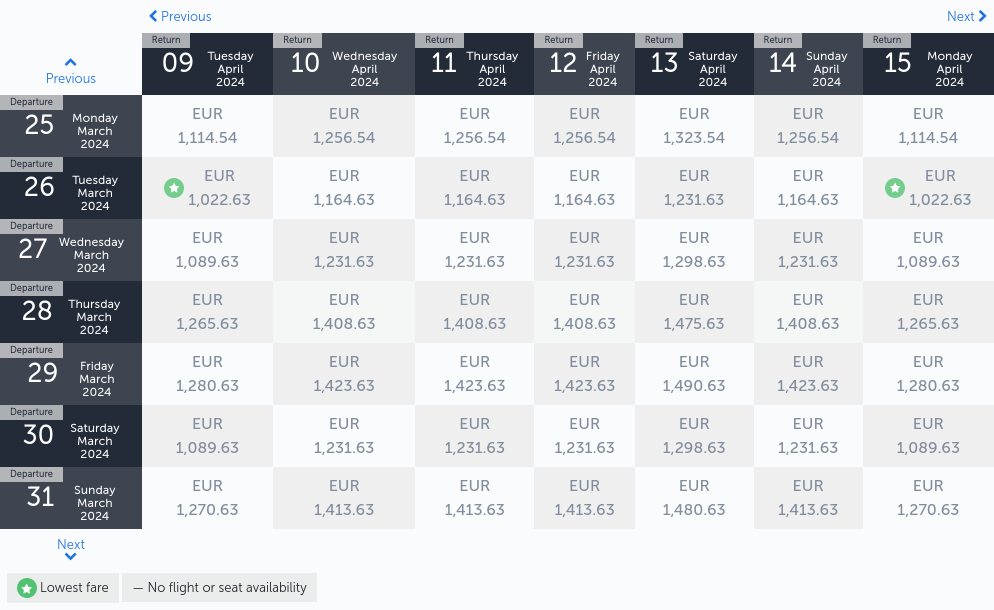
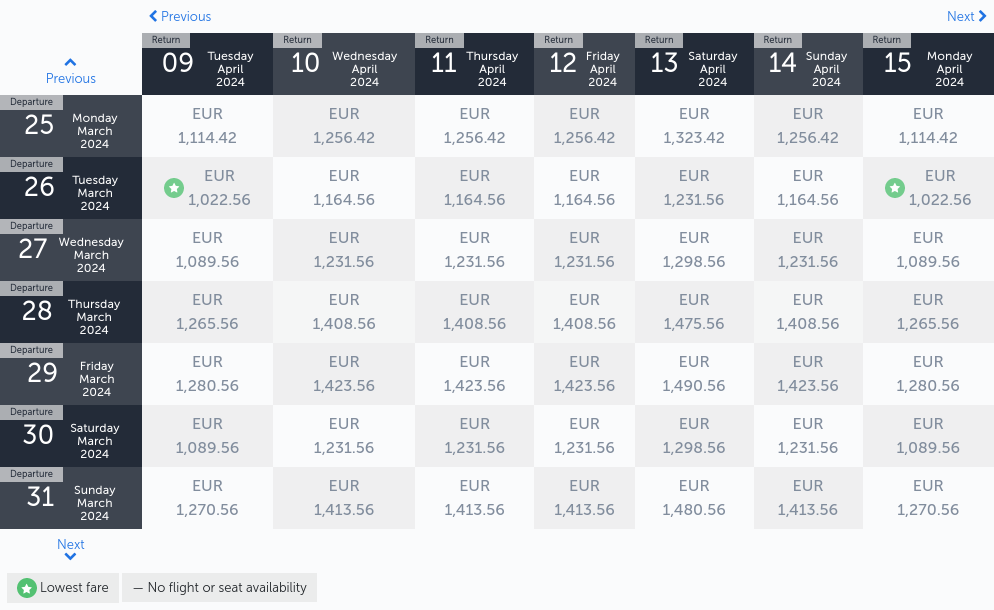
Latest scraping taiwan: Fri Jun  9 22:38:40 UTC 2023

diff --git a/scrapes/taiwan/turkish-airlines.md b/scrapes/taiwan/turkish-airlines.md
@@ -2,13 +2,13 @@
 | --- | --- | --- | --- | --- | --- | --- | --- |
 | Previous | Return<br><br>09 Tuesday April 2024 | Return<br><br>10 Wednesday April 2024 | Return<br><br>11 Thursday April 2024 | Return<br><br>12 Friday April 2024 | Return<br><br>13 Saturday April 2024 | Return<br><br>14 Sunday April 2024 | Return<br><br>15 Monday April 2024 |
 | --- | --- | --- | --- | --- | --- | --- | --- |
-| Departure<br><br>25 Monday March 2024 | 1,114.54 | 1,256.54 | 1,256.54 | 1,256.54 | 1,323.54 | 1,256.54 | 1,114.54 |
-| Departure<br><br>26 Tuesday March 2024 | 1,022.63 | 1,164.63 | 1,164.63 | 1,164.63 | 1,231.63 | 1,164.63 | 1,022.63 |
-| Departure<br><br>27 Wednesday March 2024 | 1,089.63 | 1,231.63 | 1,231.63 | 1,231.63 | 1,298.63 | 1,231.63 | 1,089.63 |
-| Departure<br><br>28 Thursday March 2024 | 1,265.63 | 1,408.63 | 1,408.63 | 1,408.63 | 1,475.63 | 1,408.63 | 1,265.63 |
-| Departure<br><br>29 Friday March 2024 | 1,280.63 | 1,423.63 | 1,423.63 | 1,423.63 | 1,490.63 | 1,423.63 | 1,280.63 |
-| Departure<br><br>30 Saturday March 2024 | 1,089.63 | 1,231.63 | 1,231.63 | 1,231.63 | 1,298.63 | 1,231.63 | 1,089.63 |
-| Departure<br><br>31 Sunday March 2024 | 1,270.63 | 1,413.63 | 1,413.63 | 1,413.63 | 1,480.63 | 1,413.63 | 1,270.63 |
+| Departure<br><br>25 Monday March 2024 | 1,114.42 | 1,256.42 | 1,256.42 | 1,256.42 | 1,323.42 | 1,256.42 | 1,114.42 |
+| Departure<br><br>26 Tuesday March 2024 | 1,022.56 | 1,164.56 | 1,164.56 | 1,164.56 | 1,231.56 | 1,164.56 | 1,022.56 |
+| Departure<br><br>27 Wednesday March 2024 | 1,089.56 | 1,231.56 | 1,231.56 | 1,231.56 | 1,298.56 | 1,231.56 | 1,089.56 |
+| Departure<br><br>28 Thursday March 2024 | 1,265.56 | 1,408.56 | 1,408.56 | 1,408.56 | 1,475.56 | 1,408.56 | 1,265.56 |
+| Departure<br><br>29 Friday March 2024 | 1,280.56 | 1,423.56 | 1,423.56 | 1,423.56 | 1,490.56 | 1,423.56 | 1,280.56 |
+| Departure<br><br>30 Saturday March 2024 | 1,089.56 | 1,231.56 | 1,231.56 | 1,231.56 | 1,298.56 | 1,231.56 | 1,089.56 |
+| Departure<br><br>31 Sunday March 2024 | 1,270.56 | 1,413.56 | 1,413.56 | 1,413.56 | 1,480.56 | 1,413.56 | 1,270.56 |
 | Next |
 | Lowest fare — No flight or seat availability |     |     |     |     |     |     |     |
 

diff --git a/scrapes/taiwan/emirates.md b/scrapes/taiwan/emirates.md
@@ -1,12 +1,12 @@
 |     |     |     |     |     |     |     |     |
 | --- | --- | --- | --- | --- | --- | --- | --- |
 | Inbound<br><br>TPE - BRU<br><br>Economy<br><br>Inbound Taipei to Taipei in Economy Class | **Monday**<br><br>25 March | **Tuesday**<br><br>26 March | **Wednesday**<br><br>27 March | **Thursday**<br><br>28 March | **Friday**<br><br>29 March | **Saturday**<br><br>30 March | **Sunday**<br><br>31 March |
-| **Tuesday**<br><br>9 April | **999** | **999** | **999** | **1,309** | **1,334** | **1,334** | **1,309** |
-| **Wednesday**<br><br>10 April | **999** | **999** | **999** | **1,309** | **1,334** | **1,334** | **1,309** |
-| **Thursday**<br><br>11 April | **1,034** | **1,034** | **1,034** | **1,309** | **1,334** | **1,334** | **1,309** |
-| **Friday**<br><br>12 April | **1,074** | **1,074** | **1,074** | **1,309** | **1,334** | **1,334** | **1,309** |
-| **Saturday**<br><br>13 April | **1,099** | **1,099** | **1,099** | **1,334** | **1,359** | **1,359** | **1,334** |
-| **Sunday**<br><br>14 April | **1,059** | **1,059** | **1,059** | **1,334** | **1,359** | **1,359** | **1,334** |
-| **Monday**<br><br>15 April | **1,034** | **1,034** | **1,034** | **1,309** | **1,334** | **1,334** | **1,309** |
+| **Tuesday**<br><br>9 April | **998** | **998** | **998** | **1,308** | **1,333** | **1,333** | **1,308** |
+| **Wednesday**<br><br>10 April | **998** | **998** | **998** | **1,308** | **1,333** | **1,333** | **1,308** |
+| **Thursday**<br><br>11 April | **1,033** | **1,033** | **1,033** | **1,308** | **1,333** | **1,333** | **1,308** |
+| **Friday**<br><br>12 April | **1,073** | **1,073** | **1,073** | **1,308** | **1,333** | **1,333** | **1,308** |
+| **Saturday**<br><br>13 April | **1,098** | **1,098** | **1,098** | **1,333** | **1,358** | **1,358** | **1,333** |
+| **Sunday**<br><br>14 April | **1,058** | **1,058** | **1,058** | **1,333** | **1,358** | **1,358** | **1,333** |
+| **Monday**<br><br>15 April | **1,033** | **1,033** | **1,033** | **1,308** | **1,333** | **1,333** | **1,308** |
 
 ![](emirates.png)
